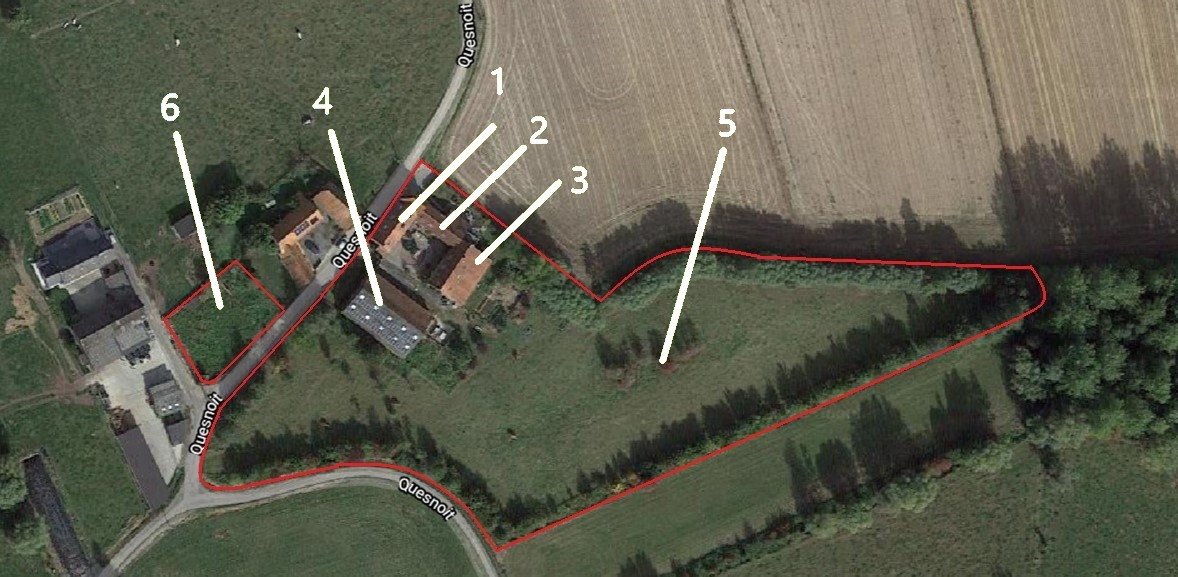
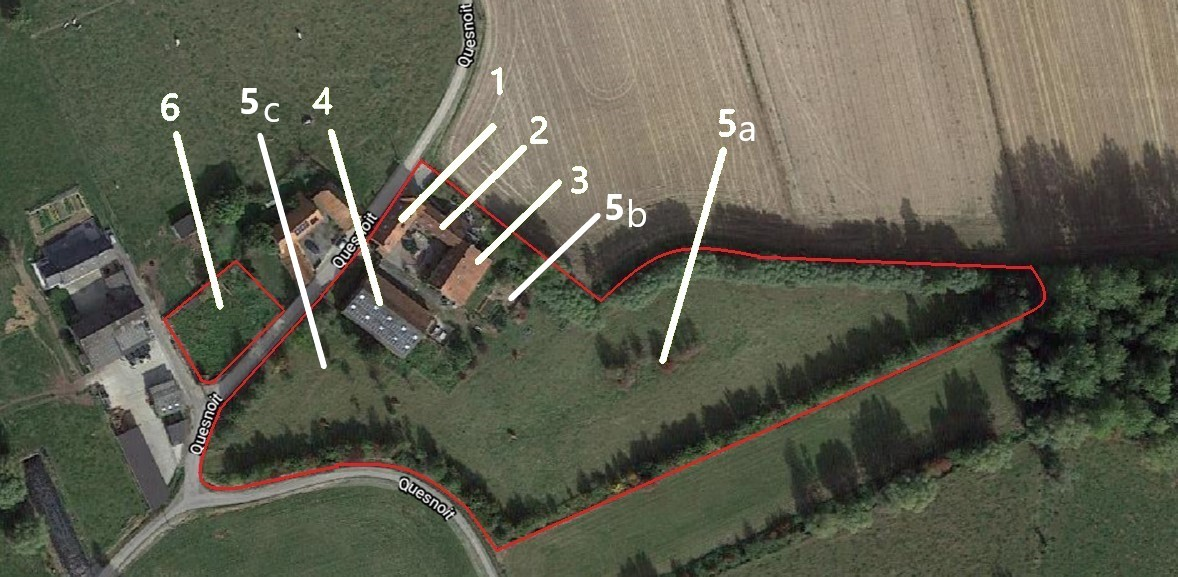
changes

diff --git a/index.html b/index.html
@@ -116,7 +116,7 @@
                         <div class="row align-items-center text-center justify-content-center">
                             <div class="col">
                                 <h1 class="backgroundText">Domein met vierkantshoeve te koop</h1>
-                                <span class="sub-text mb-3 d-block backgroundSubText"><strong> Quesnoit 24, 7890 Ellezelles</strong></span>
+                                <span class="sub-text mb-3 d-block backgroundSubText"> <strong>Quesnoit 24, 7890 Ellezelles</strong></span>
                                 <div style="display: none;">
                                     <a class="play-button d-block vidStart" data-fancybox data-ratio="2" href="https://www.youtube.com/watch?v=UeHojurVrUU"> <span class="icon-play"></span> </a>
                                 </div>
@@ -168,25 +168,26 @@
                                 <br/>
                                 Het domein heeft een totale oppervlakte van 1,3 Ha. Het grenst vooraan aan de rue 'Quesnoit' en wordt achteraan omringd door een houtwal met inheemse bomen en struiken.<br/>
                                 <br/>
-                                Het domein (zie foto hieronder: de zones binnen de rode lijnen) bestaat thans uit volgende gedeelten die allen behalve nummers 5 en 6 rond een binnenkoer liggen: <br/>
-                                <br/>
                                 <div class="img-years mb-2 mb-lg-0 mx-auto introImage">
                                   <a href="images/currentForm.jpg"> <img href="" data-fancybox="gallery" data-width="1000" data-caption="" data-src="images/currentForm.jpg" alt="Image" class="img-fluid"/> </a>
                                </div>
+                               <br>
+                                Het domein (zie foto hieronder: de zones binnen de rode lijnen) bestaat thans uit volgende gedeelten die allen behalve nummers 5 en 6 rond een binnenkoer liggen: <br/>
+                                <br/>
                                <br>
                                 <div class="img-years mb-2 mb-lg-0 mx-auto introImage">
                                     <a href="images/currentFormTwo.jpg"> <img href="" data-fancybox="gallery" data-width="1000" data-caption="" data-src="images/currentFormTwo.jpg" alt="Image" class="img-fluid"/> </a>
                                 </div>
                                 <br>
                                 <ul>
-                                    <li>1. Het zogenoemde ‘hoofdhuis’</li>
-                                    <li>2. De gîte</li>
-                                    <li>3. Een ‘polyvalente ruimte’</li>
-                                    <li>4. De schuur met stallen en werkatelier</li>
-                                    <li>5. De weide (5a) met groententuin (5b) en boomgaard (5c)</li>
-                                    <li>6. Een terrein met kapelletje dat mogelijk in bouwgrond kan worden omgezet</li>
+                                    <li>1. een zogenoemd ‘hoofdhuis’</li>
+                                    <li>2. een gîte ('gîte rural' - vakantiehuis)</li>
+                                    <li>3. een ‘polyvalente ruimte’</li>
+                                    <li>4. een schuur met stallen en werkatelier</li>
+                                    <li>5. een weide (5a) met groententuin (5b) en boomgaard (5c)</li>
+                                    <li>6. een terrein met kapelletje dat mogelijk in bouwgrond kan worden omgezet</li>
                                 </ul>
-                                Vóór de ingang van de vierkantshoeve ligt een <strong> parking </strong> voor twee voertuigen en voor de schuuringang kan nog een voertuig geplaatst worden (foto A1). De ingang van de vierkantshoeve wordt
+                                Vóór de ingang van de vierkantshoeve ligt een <strong>parking</strong> voor twee voertuigen en voor de schuuringang kan nog een voertuig geplaatst worden (foto A1). De ingang van de vierkantshoeve wordt
                                 vooraan afgesloten met een elektronisch bedienbare poort (foto A2).<br/>
                                 <br/>
                                 <div class="row">
@@ -200,8 +201,8 @@
                                     </div>
                                 </div>
                                 <br/>
-                                Bij het binnenkomen van de vierkantshoeve langs de bijna zes meter brede oprit ziet men links de<strong> binnenkoer</strong>. Deze oprit (foto's A3 en A4) loopt door tot aan de weide, de groententuin en een
-                                betonnen parking gelegen achter de schuur (geschikt voor 2 voertuigen of aanhangwagens).<br/>
+                                Bij het binnenkomen van de vierkantshoeve langs de bijna zes meter brede oprit ziet men links de <strong>binnenkoer</strong>. Deze oprit (foto's A3 en A4) loopt door tot aan de weide, de groententuin en een
+                                betonnen parking gelegen achter de schuur (geschikt voor 2 voertuigen of 2 aanhangwagens).<br/>
                                 <br/>
                                 <div class="row">
                                     <div class="col-lg-4 col-md-6 mb-4 mb-lg-0 post-entry">
@@ -214,7 +215,7 @@
                                     </div>
                                 </div>
                                 <br/>
-                                De binnenkoer is uitgebouwd met een 'binnencirkel' en een halve maan met tegen de gebouwen buxusstruiken, kiwi's, ficus, hortensdia petiolaris kamperfoelie, enz.. Op regelmatige basis ziet men grote oranje bloembakken (foto's A5 tot en met A10).<br/>
+                                De binnenkoer is uitgebouwd met een 'binnencirkel' en een 'halve maan' met tegen de gebouwen buxusstruiken, kiwi's, ficus, hortensdia petiolaris kamperfoelie, enz.. Op regelmatige basis ziet men grote oranje bloembakken (foto's A5 tot en met A10).<br/>
                                 <br/>
                                 <div class="row">
                                     <div class="col-lg-4 col-md-6 mb-4 mb-lg-0 post-entry">
@@ -256,24 +257,26 @@
                                     </div>
                                     <div class="col-lg-4 col-md-6 mb-4 mb-lg-0 post-entry">
                                         <a href="" class="d-block figure"> <img href="" data-fancybox="gallery" data-width="1000" data-caption="" data-src="images/a13.jpg" alt="Image" class="img-fluid"/> </a>
-                                        <h3><a href=""> Foto A13: pomp</a></h3>
+                                        <h3><a href=""> Foto A13: waterpomp</a></h3>
                                     </div>
                                 </div>
                                 <br/>
-                                Aan alle vensters van het hoofdhuis en de gîte zijn zowel aan de buitenaknt als op de binnenkoer
+                                Aan alle vensters van het hoofdhuis en de gîte zijn zowel aan de buitenkant als op de binnenkoer
                                 afsluitbare eiken luiken voorzien; <br>
-                                Het <strong> hoofdhuis </strong> omvat grosso modo op het gelijkvloers een ruime hall, een tweede hall met toilet, een ingerichte keuken, een eetplaats en living en een tussenruimte (overgang hoofdhuis-gîte).
+                                Het <strong>hoofdhuis</strong> omvat grosso modo op het gelijkvloers een ruime hall, een eetplaats en living, een ingerichte keuken, een tweede hall met toilet en een tussenruimte (overgang hoofdhuis-gîte).
                                 Op de eerste verdieping is er een wasplaats, een badkamer en vijf slaapkamers.<br/>
                                 <br/>
-                                De <strong> gîte</strong>, die een afzonderlijke parking, een afzonderlijke inkom en twee afzonderlijke terrassen heeft, omvat op het gelijkvloers een living, keuken en eetplaatsgedeelte met dubbele cassettehaard, een hall en technische ruimte. Op
-                                de eerste verdieping vindt men er een badkamer en drie slaapkamers. <br/>
+                                De <strong>gîte</strong>, die een afzonderlijke parking, een afzonderlijke inkom en twee afzonderlijke terrassen heeft, omvat op het gelijkvloers een living, keuken en eetplaatsgedeelte met dubbele cassettehaard, een hall en technische ruimte. Op
+                                de eerste verdieping vindt men een badkamer en drie slaapkamers. <br/>
                                 <br/>
-                                Het <strong> polyvalente ruimte </strong> omvat op het gelijkvloers twee zalen, een keukengedeelte met afzonderlijke stockageruimte en een sanitair blok. Op de verdieping vindt men twee slaapzalen, een
-                                toilet en twee kamers Deze polyvalente ruimte kan verbouwd worden tot een tweede woonst, een tweede gîte, een restaurant of een bedrijfsruimte. De polyvalente ruimte is trouwens reeds aangesloten op een
-                                privaat waterzuiveringsstation voor 54 personen en een vetvanger. De weide is vrij van pacht en kan met gebruik van de twee stallen en schuur ook aangewend worden door een paardenliefhebber.<br/>
+                                De <strong>polyvalente ruimte</strong> omvat op het gelijkvloers twee zalen, een keukengedeelte met afzonderlijke stockageruimte en een sanitair blok. Op de verdieping vindt men twee slaapzalen, een
+                                toilet en twee kamers Deze polyvalente ruimte kan verbouwd worden tot een tweede woonst of hoofdwoonst, een tweede gîte, een restaurant of een bedrijfsruimte. De polyvalente ruimte is trouwens reeds aangesloten op een
+                                privaat waterzuiveringsstation voor 54 personen en een vetvanger. 
+                                <br>
+                                De <strong>weide</strong> is vrij van pacht en kan met gebruik van de twee stallen en schuur ook aangewend worden door een paardenliefhebber.<br/>
                                 <br/>
                                 Aan de overzijde van de straat bevindt zich nog een actueel braakliggend
-                                <strong> terrein </strong>
+                                <strong>terrein</strong> 
                                 van bijna 7 are met kapelletje (1,5 op 1 m). Dit terrein kan mogelijk tot bouwgrond omgevormd worden voor zover de toelating daartoe bekomen wordt.<br/>
                                 <br/>
                                 Meer details kunnen gevonden worden in de later volgende 'Uitgebreide omschrijving'.<br/>
@@ -311,7 +314,7 @@
                                 <br/>
                                 In 2000 werd de hoeve gekocht door het gezin Govaert. De hoeve kwam uiteindelijk in 2006 in handen van Jacques Govaert, actuele eigenaar. <br/>
                                 <br/>
-                                De hoeve onderging <strong> diverse recente transformaties</strong>. Zo werd vanaf 1990 overgegaan tot een belangrijke renovatie van het oorspronkelijke hoofdhuis, dat een tweede renovatie onderging in het
+                                De hoeve onderging <strong>diverse recente transformaties</strong>. Zo werd vanaf 1990 overgegaan tot een belangrijke renovatie van het oorspronkelijke hoofdhuis, dat een tweede renovatie onderging in het
                                 jaar 2000. In datzelfde jaar 1990 werd er een gîte gebouwd waar de vroegere paardenstal was. Op de plaats waar de vroegere koeienstal was, werd in de jaren '90 een polyvalente ruimte gebouwd met dubbele zaal, sanitair blok en
                                 keuken. Deze polyvalente ruimte heeft onder de vroegere eigenaars (Van Bever) dienst gedaan als onthaalplaats voor jeugdgroepen en landelijke vormingen. Op de verdieping vindt men dan ook nog twee
                                 slaapzalen, twee begeleiderskamers en een toilet terug.<br/>
@@ -402,8 +405,8 @@
                                 Met een trap (foto H14) komt men vanuit het keukengedeelte op de eerste verdieping. Op de eerste verdieping vindt men:
                                 <ul>
                                     <li>een wasplaats (2,45 x 2,15 = 5,30m²) (foto H15)</li>
-                                    <li>kleine overloop van trap naar wasplaats, badkamer en grote overloop (3,25 x 1,05 = 3,40m²) (foto H16)</li>
-                                    <li>grote overloop die uitgeeft op alle vijf slaapkamers (11,00 x 2,13 = 23,43m²) (foto's H17 en H18)</li>
+                                    <li>een kleine overloop van trap naar wasplaats, badkamer en grote overloop (3,25 x 1,05 = 3,40m²) (foto H16)</li>
+                                    <li>een grote overloop die uitgeeft op alle vijf slaapkamers (11,00 x 2,13 = 23,43m²) (foto's H17 en H18)</li>
                                     <li>een badkamer (volledig betegeld op de grond en de muren en met 2 lavabo's, bad, douche en toilet) (3,05 x 3,40 = 10,40m²) (foto's H19 tot en met H20)</li>
                                     <li>vijf slaapkamers:</li>
                                     <ul>
@@ -1179,10 +1182,10 @@
                                 <li>3: woning 3 (huidige polyvalente ruimte aan te passen): voor minstens 6 personen</li>
                                 <li>4: woning 4 (huidige schuur aan te passen): voor minstens 6 personen</li>
                             </ul>
-                            Ten tweede kan een <strong> cohousing project</strong> uitgewerkt worden met gemeenschappelijke en afzonderlijke gedeelten. Ten derde 1, 2 of 3 woningen kunnen al dan niet gecombineerd met respectievelijk 3, 2 of
-                            1 <strong> gîtes of B&B </strong>.<br/>
-                            Ten vierde kan het geheel ook geexplloiteerd worden als <strong> restaurant </strong> of als <strong> bedrijfsvestiging </strong>. Ten vijfde kan het domein dienen als
-                            <strong>ondernemingszetel en/of professionele ruimte</strong>. Ten zesde, <strong> paardenliefhebber of amateur van schapen/geiten/koeien/... </strong> kan er zijn gading vinden <br/>
+                            Ten tweede kan een <strong>cohousing project</strong> uitgewerkt worden met gemeenschappelijke en afzonderlijke gedeelten. Ten derde 1, 2 of 3 woningen kunnen al dan niet gecombineerd met respectievelijk 3, 2 of
+                            1 <strong>gîtes of B&B</strong> .<br/>
+                            Ten vierde kan het geheel ook geexplloiteerd worden als <strong>restaurant</strong> of als <strong>bedrijfsvestiging</strong> . Ten vijfde kan het domein dienen als
+                 <strong>ondernemingszetel en/of professionele ruimte</strong>. Ten zesde, <strong>paardenliefhebber of amateur van schapen/geiten/koeien/...</strong> kan er zijn gading vinden <br/>
                             <br/>
                             <div class="rowP">
                                 <div class="columnP col-lg-7 img-years mb-5 mb-lg-0 mx-auto">
@@ -1329,7 +1332,7 @@
                         <div class="row align-items-center text-center justify-content-center">
                             <div class="col">
                                 <h1 class="backgroundText">Ferme en carré à vendre</h1>
-                                <span class="sub-text mb-3 d-block backgroundSubText"><strong> Quesnoit 24, 7890 Ellezelles</strong></span>
+                                <span class="sub-text mb-3 d-block backgroundSubText"> <strong>Quesnoit 24, 7890 Ellezelles</strong></span>
                                 <div style="display: none;">
                                     <a class="play-button d-block vidStart" data-fancybox data-ratio="2" href="https://www.youtube.com/watch?v=UeHojurVrUU"> <span class="icon-play"></span> </a>
                                 </div>
@@ -1400,7 +1403,7 @@
                                     <li>5. La prairie (5a) avec potager (5b) et verger (5c)</li>
                                     <li>6. Un terrain avec petite chapelle qui pourrait être converti en un terrain à bâtir</li>
                                 </ul>
-                                Vóór de ingang van de vierkantshoeve ligt een <strong> parking </strong> voor twee voertuigen en voor de schuuringang kan nog een voertuig geplaatst worden (foto A1). De ingang van de vierkantshoeve wordt
+                                Vóór de ingang van de vierkantshoeve ligt een <strong>parking</strong> voor twee voertuigen en voor de schuuringang kan nog een voertuig geplaatst worden (foto A1). De ingang van de vierkantshoeve wordt
                                 vooraan afgesloten met een elektronisch bedienbare poort (foto A2).<br/>
                                 <br/>
                                 <div class="row">
